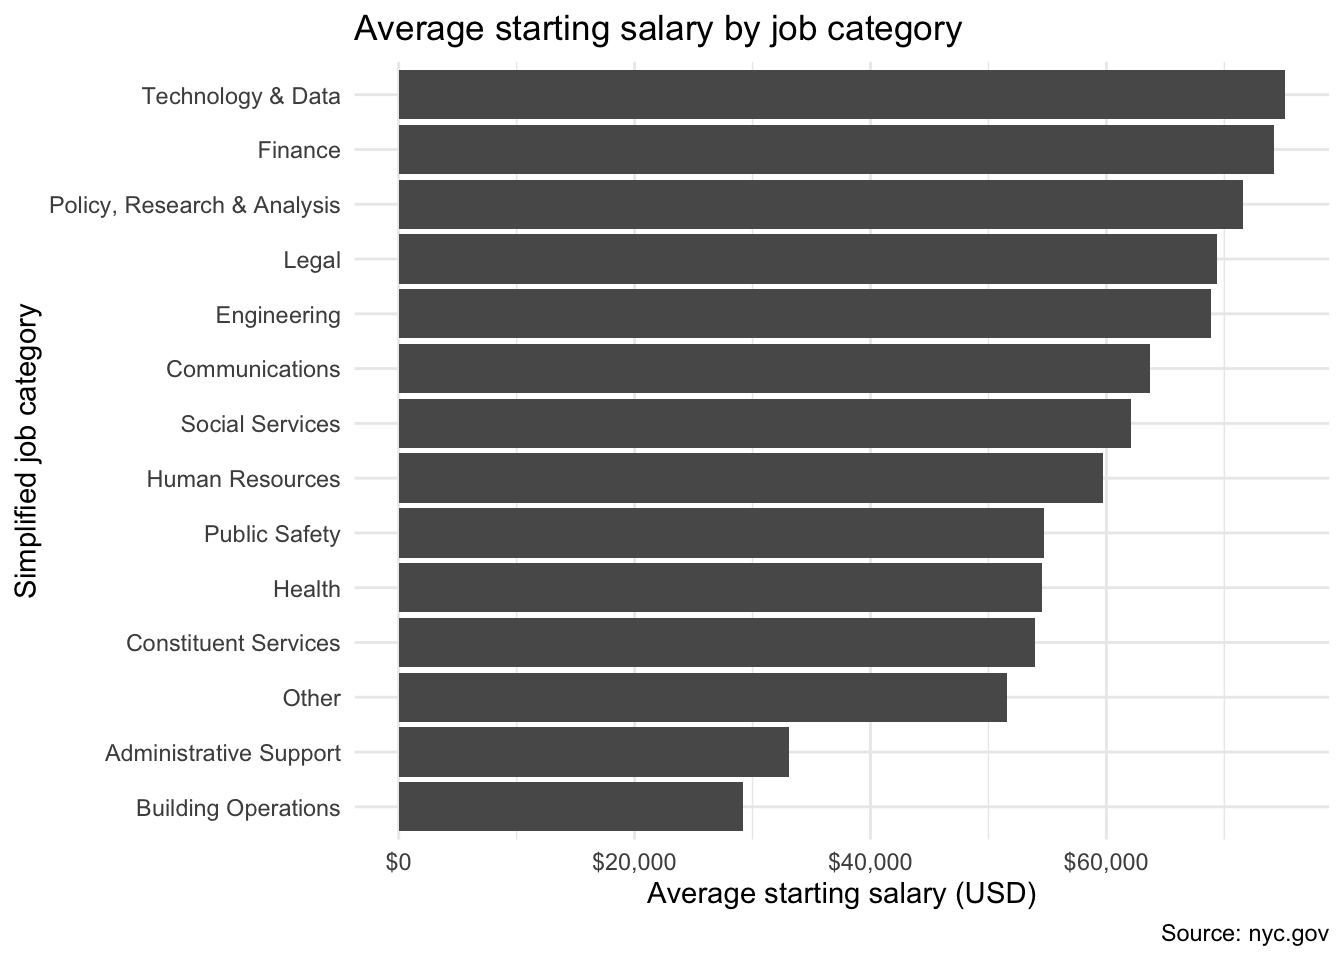
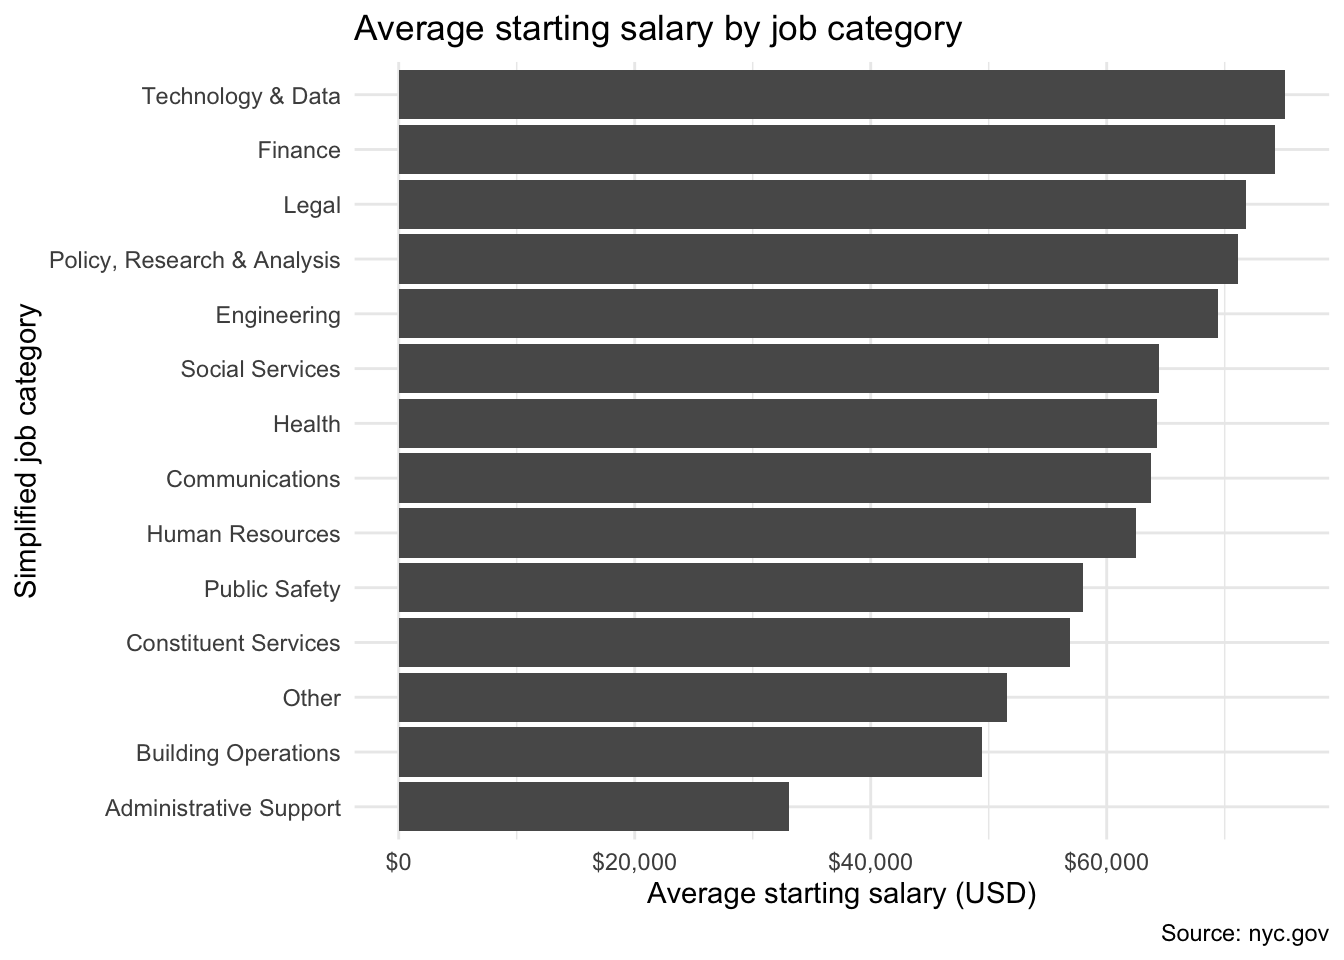
changed bar plots

diff --git a/docs/results.html b/docs/results.html
@@ -23,7 +23,7 @@
 <meta name="author" content="Margaret Reed, Yaxin Hu, Yizhou Zhao" />
 
 
-<meta name="date" content="2022-12-12" />
+<meta name="date" content="2022-12-13" />
 
   <meta name="viewport" content="width=device-width, initial-scale=1" />
   <meta name="apple-mobile-web-app-capable" content="yes" />
@@ -108,9 +108,11 @@
             <section class="normal" id="section-">
 <div id="results" class="section level1 hasAnchor" number="4">
 <h1><span class="header-section-number">Chapter 4</span> Results<a href="results.html#results" class="anchor-section" aria-label="Anchor link to header"></a></h1>
-<p><img src="finalproj_files/figure-html/plot1-1.png" width="672" /></p>
+<p><img src="finalproj_files/figure-html/plot1b-1.png" width="672" /></p>
 <p><img src="finalproj_files/figure-html/plot2-1.png" width="672" /></p>
 <p><img src="finalproj_files/figure-html/plot3-1.png" width="672" /></p>
+<p><img src="finalproj_files/figure-html/unnamed-chunk-3-1.png" width="672" /></p>
+<p><img src="finalproj_files/figure-html/unnamed-chunk-4-1.png" width="672" /></p>
 
 </div>
             </section>

diff --git a/docs/404.html b/docs/404.html
@@ -23,7 +23,7 @@
 <meta name="author" content="Margaret Reed, Yaxin Hu, Yizhou Zhao" />
 
 
-<meta name="date" content="2022-12-12" />
+<meta name="date" content="2022-12-13" />
 
   <meta name="viewport" content="width=device-width, initial-scale=1" />
   <meta name="apple-mobile-web-app-capable" content="yes" />
